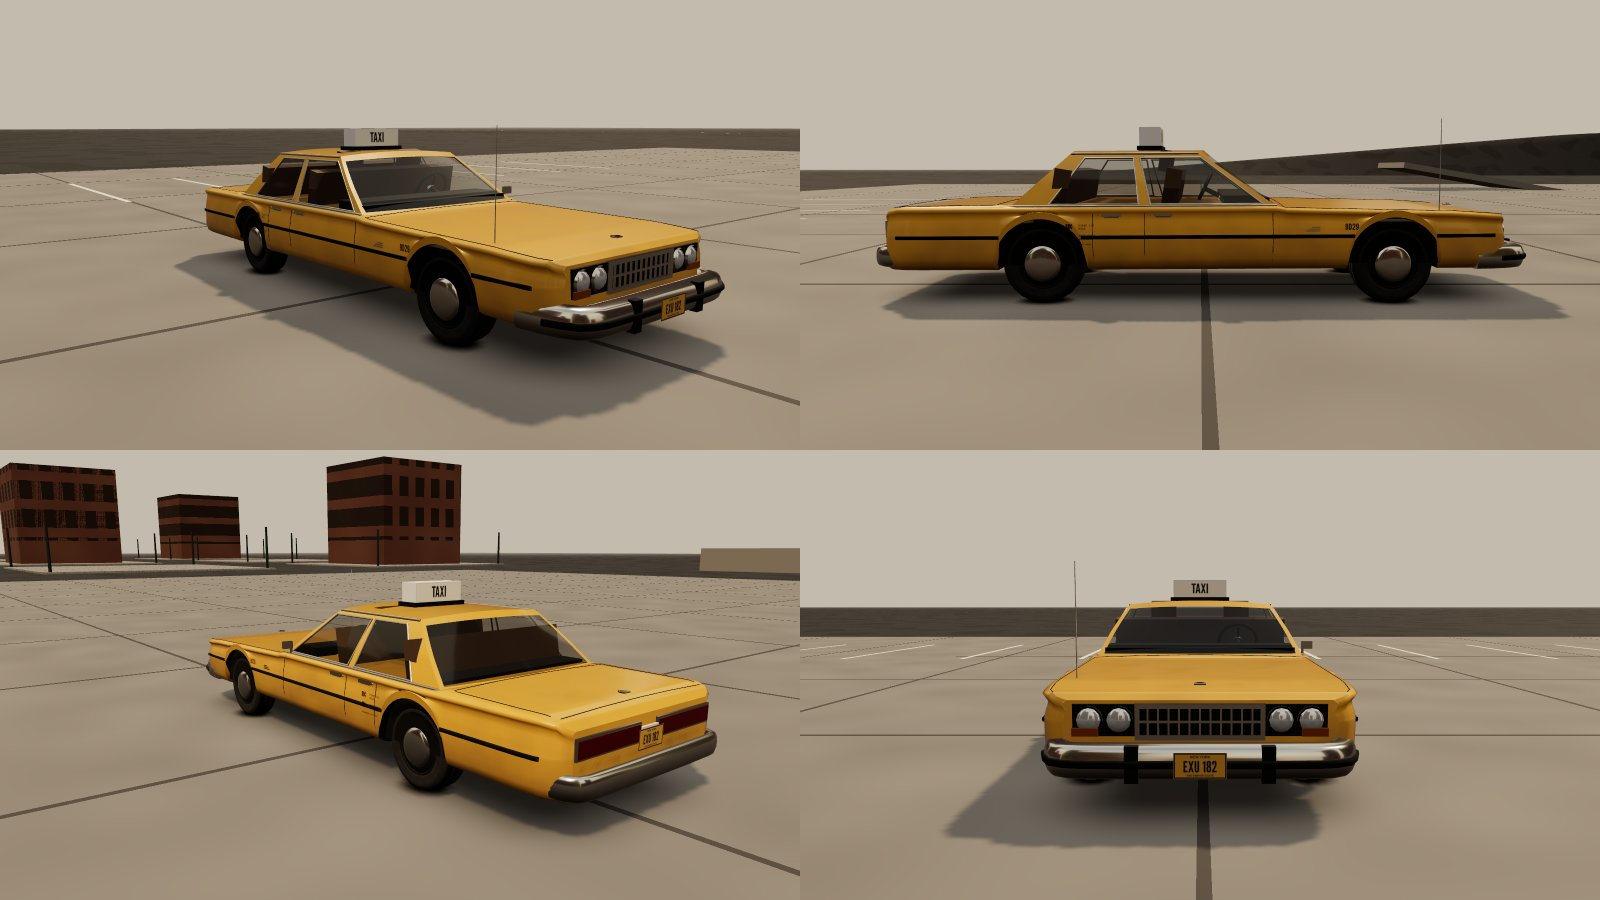
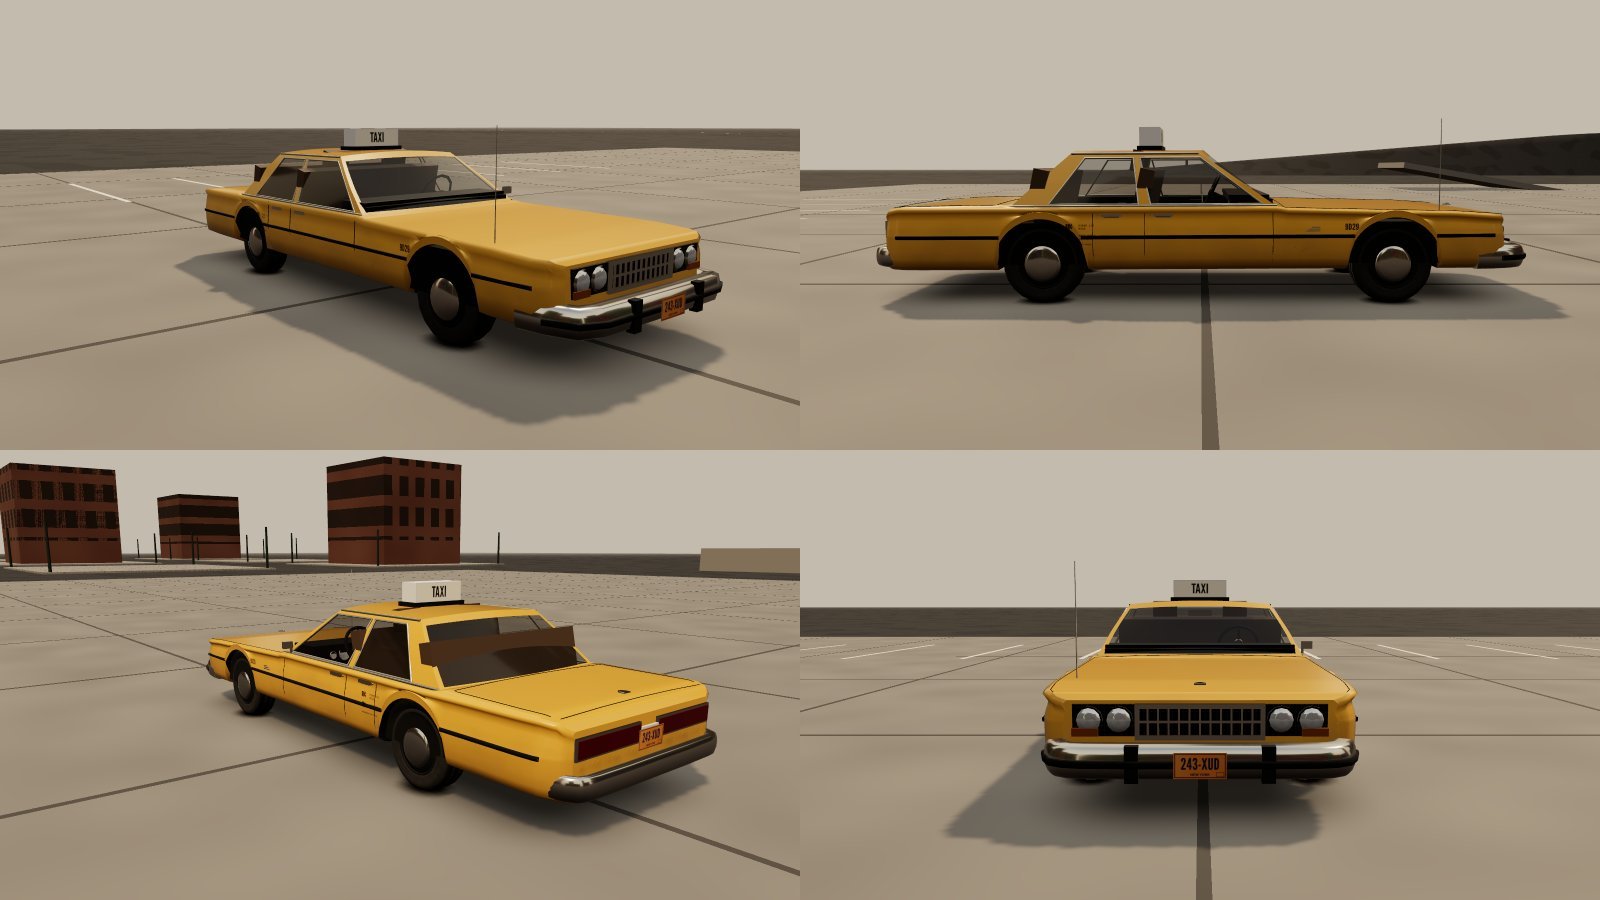
Vehicles: interior rework (H-point layout, seats moved back, open cabin deck, hero dash/gauges/pedals/door cards), interior board; re-shot turntables, lineup, hero boards
Claude-Session: https://claude.ai/code/session_01H4ZSJ51q9zJhE3T3n4Hw3M

diff --git a/src/vehicles/gen/body.ts b/src/vehicles/gen/body.ts
@@ -190,7 +190,10 @@ export function generate(m: ModelSpec, o: GenOptions): GeneratedModel {
   const topRows = secs.map((c) => c.top);
   const nTop = topRows[0].length;
   const isHood = (i: number, j: number) => lod === 0 && !!m.hood && sCell(i) > m.hood[0] && sCell(i) < m.hood[1] && j >= 1 && j < nTop - 2;
-  b.grid(topRows, (i, j) => (isHood(i, j) ? null : m.twoTone?.(sCell(i), 9) ? 'paint2' : 'paint'), { inside });
+  // passenger cars with a modelled cabin: no painted deck across the cabin at the belt (it hid the
+  // seats and dash from outside the glass); the cabin shell and floor close it instead
+  const openCabin = (i: number, j: number) => lod === 0 && PASSENGER.has(m.cls) && sCell(i) > m.gh.sA0 + 0.01 && sCell(i) < m.gh.sC0 - 0.01 && j >= 1 && j < nTop - 2;
+  b.grid(topRows, (i, j) => (isHood(i, j) || openCabin(i, j) ? null : m.twoTone?.(sCell(i), 9) ? 'paint2' : 'paint'), { inside });
   if (m.hood) hoodB.grid(topRows, (i, j) => (isHood(i, j) ? (m.twoTone?.(sCell(i), 9) ? 'paint2' : 'paint') : null), { inside });
   // Underside
   b.grid(secs.map((c) => c.under), 'under', { facing: [0, -1, 0] });
@@ -585,66 +588,82 @@ function cabin(b: GeoBuilder, m: ModelSpec, Z: (s: number) => number, halfW: (s:
   const g = m.gh, belt = m.beltY;
   const hw = halfW((g.sA0 + g.sC0) / 2) - g.beltInset - 0.06;
   const d = m.seats.driver;
+  // layout from the driver's H-point (z = d[2]): wheel 0.42 m ahead, dash face 0.6 m ahead,
+  // seat back just behind the hip; the rear bench one row (0.95 m) back, under the roof
   const front = Z(g.sA0), rearLimit = Z(g.sC0) - 0.2;
-  // dash and its padded top
-  b.box('interior', 0, belt - 0.03, front + 0.25, hw * 2, 0.2, 0.4);
-  b.box('trim', 0, belt + 0.075, front + 0.3, hw * 2, 0.03, 0.32);
+  const hip = d[2], dashFace = hip - 0.6;
+  const dashD = Math.max(0.2, dashFace - (front + 0.02));
+  // dash: lower body, padded top with a rolled lip over the instruments, a glovebox line
+  b.box('interior', 0, belt - 0.07, dashFace - dashD / 2, hw * 2, 0.26, dashD);
+  b.box('trim', 0, belt + 0.075, dashFace - dashD / 2 + 0.04, hw * 2, 0.04, dashD + 0.02);
+  b.box('trim', 0, belt + 0.05, dashFace + 0.015, hw * 2, 0.05, 0.05); // padded lip
+  if (hero) b.box('grille', -d[0] * 0.95, belt - 0.12, dashFace + 0.002, 0.36, 0.004, 0.004); // glovebox shut line
   // steering wheel on its column, tilted toward the driver
-  const wz = front + 0.62, wy = belt + 0.1;
+  const wz = hip - 0.42, wy = belt + 0.08;
   const wheelM = new THREE.Matrix4().makeTranslation(d[0], wy, wz).multiply(new THREE.Matrix4().makeRotationX(-0.45));
   b.add('trim', new THREE.TorusGeometry(0.19, hero ? 0.017 : 0.016, hero ? 8 : 4, hero ? 32 : 12), wheelM.clone());
+  const colLen = Math.hypot(wz - dashFace, 0.12) + 0.05;
+  b.add('trim', new THREE.CylinderGeometry(0.025, 0.03, colLen, 6), new THREE.Matrix4().makeTranslation(d[0], wy - 0.06, (wz + dashFace) / 2).multiply(new THREE.Matrix4().makeRotationX(Math.PI / 2 - 0.45)));
   if (hero) {
     // three-spoke wheel with a horn pad, and the instrument cluster: two big dials, two small, chrome bezels
     for (const a of [Math.PI / 2, Math.PI / 2 + 2.3, Math.PI / 2 - 2.3]) b.add('trim', new THREE.BoxGeometry(0.17, 0.022, 0.012).translate(0.085, 0, 0).applyMatrix4(new THREE.Matrix4().makeRotationZ(a)), wheelM.clone());
     b.add('chrome', new THREE.CylinderGeometry(0.045, 0.05, 0.03, 16).rotateX(Math.PI / 2), wheelM.clone());
-    const panelZ = front + 0.47, panelY = belt - 0.03; // on the dash's rear face, under the padded top
-    for (const [dx, r] of [[-0.11, 0.065], [0.06, 0.065], [0.19, 0.038], [-0.23, 0.038]] as [number, number][]) {
+    const panelZ = dashFace + 0.004, panelY = belt - 0.02;
+    for (const [dx, r] of [[-0.1, 0.06], [0.06, 0.06], [0.19, 0.036], [-0.23, 0.036]] as [number, number][]) {
       const x = d[0] + dx;
-      const face = new THREE.Matrix4().makeTranslation(x, panelY, panelZ).multiply(new THREE.Matrix4().makeRotationX(-0.25));
+      const face = new THREE.Matrix4().makeTranslation(x, panelY, panelZ).multiply(new THREE.Matrix4().makeRotationX(-0.12));
       b.add('chrome', new THREE.TorusGeometry(r, 0.006, 6, 24), face.clone());
-      b.add('white', new THREE.CircleGeometry(r * 0.96, 24).translate(0, 0, 0.004), face.clone()); // faces the driver (+z)
-      // tick marks and a needle
+      b.add('white', new THREE.CircleGeometry(r * 0.96, 24).translate(0, 0, -0.002), face.clone()); // faces the driver (+z)
       for (let k = 0; k <= 8; k++) {
         const t = -2.3 + (k / 8) * 4.6;
-        b.add('trim', new THREE.BoxGeometry(0.003, r * 0.18, 0.002).translate(0, r * 0.78, 0.006).applyMatrix4(new THREE.Matrix4().makeRotationZ(t)), face.clone());
+        b.add('trim', new THREE.BoxGeometry(0.003, r * 0.18, 0.002).translate(0, r * 0.78, 0.001).applyMatrix4(new THREE.Matrix4().makeRotationZ(t)), face.clone());
       }
-      b.add('reverse', new THREE.BoxGeometry(0.004, r * 0.8, 0.002).translate(0, r * 0.38, 0.008).applyMatrix4(new THREE.Matrix4().makeRotationZ(-1.1 + dx * 3)), face.clone());
-      // hood over the cluster
-      b.add('interior', new THREE.CylinderGeometry(r + 0.02, r + 0.02, 0.07, 16, 1, true, -Math.PI / 2, Math.PI).rotateX(Math.PI / 2), face.clone().multiply(new THREE.Matrix4().makeTranslation(0, 0, 0.025)));
+      b.add('reverse', new THREE.BoxGeometry(0.004, r * 0.8, 0.002).translate(0, r * 0.38, 0.003).applyMatrix4(new THREE.Matrix4().makeRotationZ(-1.1 + dx * 3)), face.clone());
     }
-    // cabin shell: inner door cards with armrests, floor with a transmission hump, firewall
-    const sill = m.sillY + 0.06, len = rearLimit - front;
-    for (const sx of [-1, 1]) {
-      b.box('interior', sx * (hw + 0.035), (sill + belt) / 2, (front + rearLimit) / 2, 0.03, belt - sill, len);
-      b.box('seat', sx * (hw + 0.005), belt - 0.16, front + 0.95, 0.06, 0.05, 0.45); // armrest
-      b.box('chrome', sx * (hw + 0.018), belt - 0.07, front + 0.75, 0.01, 0.02, 0.09); // door pull
-    }
-    b.box('interior', 0, sill, (front + rearLimit) / 2, hw * 2 + 0.1, 0.03, len);
-    b.box('interior', 0, sill + 0.09, (front + rearLimit) / 2, 0.24, 0.16, len * 0.9);
-    b.box('interior', 0, (sill + belt) / 2, front + 0.04, hw * 2 + 0.1, belt - sill, 0.03);
-    // radio and heater slider panel in the centre stack (knobs, chrome face)
-    b.box('chrome', 0.05, belt - 0.06, front + 0.44, 0.18, 0.05, 0.01, 0, -0.25);
-    for (const dx of [-0.02, 0.12]) b.add('trim', new THREE.CylinderGeometry(0.012, 0.012, 0.02, 10).rotateX(Math.PI / 2), new THREE.Matrix4().makeTranslation(dx, belt - 0.06, front + 0.455));
+    // centre stack: radio with a chrome face and two knobs, heater slider panel below
+    b.box('chrome', 0.05, belt - 0.06, dashFace + 0.006, 0.18, 0.05, 0.01);
+    for (const dx of [-0.02, 0.12]) b.add('trim', new THREE.CylinderGeometry(0.012, 0.012, 0.02, 10).rotateX(Math.PI / 2), new THREE.Matrix4().makeTranslation(dx, belt - 0.06, dashFace + 0.02));
+    b.box('trim', 0.05, belt - 0.13, dashFace + 0.006, 0.2, 0.035, 0.01);
+    // pedals and the column-shift lever
+    for (const dx of [-0.08, 0.06]) b.box('rubber', d[0] + dx, m.sillY + 0.18, dashFace + 0.12, 0.08, 0.1, 0.02, 0, 0.5);
+    b.add('chrome', new THREE.CylinderGeometry(0.006, 0.006, 0.22, 6).rotateZ(Math.PI / 2 - 0.3), new THREE.Matrix4().makeTranslation(d[0] + 0.14, wy - 0.07, wz + 0.1));
   }
-  b.add('trim', new THREE.CylinderGeometry(0.025, 0.03, 0.45, 6), new THREE.Matrix4().makeTranslation(d[0], wy - 0.08, wz - 0.2).multiply(new THREE.Matrix4().makeRotationX(Math.PI / 2 - 0.45)));
-  // bench seats with headrests (mandatory on new cars from 1969)
-  const bench = (z: number, headrests: boolean) => {
-    b.box('seat', 0, belt - 0.22, z - 0.25, hw * 2, 0.16, 0.5); // cushion (mostly below the belt)
-    b.add('seat', new THREE.BoxGeometry(hw * 2, 0.56, 0.14), new THREE.Matrix4().makeTranslation(0, belt + 0.05, z).multiply(new THREE.Matrix4().makeRotationX(-0.17)));
-    if (headrests) for (const sx of [-1, 1]) b.box('seat', sx * Math.abs(d[0]), belt + 0.4, z + 0.06, 0.26, 0.2, 0.1, 0, -0.17);
+  // bench seats with headrests (mandatory on new cars from 1969); the back leans 12°
+  const bench = (back: number, headrests: boolean) => {
+    b.box('seat', 0, belt - 0.24, back - 0.27, hw * 2, 0.15, 0.52); // cushion (mostly below the belt)
+    if (hero) for (const sx of [-1, 1]) b.box('seat', sx * Math.abs(d[0]), belt - 0.16, back - 0.27, 0.5, 0.02, 0.46); // pleated top panels
+    b.add('seat', new THREE.BoxGeometry(hw * 2, 0.58, 0.13), new THREE.Matrix4().makeTranslation(0, belt + 0.04, back).multiply(new THREE.Matrix4().makeRotationX(-0.21)));
+    if (headrests) for (const sx of [-1, 1]) b.box('seat', sx * Math.abs(d[0]), belt + 0.4, back + 0.07, 0.26, 0.2, 0.1, 0, -0.21);
   };
-  const frontZ = d[2] + 0.32;
-  bench(frontZ, true);
-  const rearZ = Math.min(d[2] + 1.3, rearLimit);
-  if (rearZ - frontZ > 0.6) bench(rearZ, false);
+  const frontBack = hip + 0.22;
+  bench(frontBack, true);
+  const rearBack = Math.min(hip + 0.95 + 0.22, rearLimit);
+  if (rearBack - frontBack > 0.6) bench(rearBack, false);
   // parcel shelf behind the rear seat and the headliner
-  if (m.cls !== 'wagon' && rearLimit - rearZ > 0.1) b.box('interior', 0, belt + 0.03, (rearZ + rearLimit) / 2 + 0.08, hw * 2, 0.03, rearLimit - rearZ + 0.1);
+  if (m.cls !== 'wagon' && rearLimit - rearBack > 0.05) b.box('interior', 0, belt + 0.03, (rearBack + rearLimit) / 2 + 0.08, hw * 2, 0.03, rearLimit - rearBack + 0.1);
   const rows: V3[][] = [];
   for (const u of [0, 0.5, 1]) {
     const s = lerp(g.sA1 + 0.05, g.sC1 - 0.05, u);
     rows.push([-1, -0.5, 0, 0.5, 1].map((xf) => [xf * (g.roofHalfW - 0.04), g.roofY - 0.025 + g.crown * (1 - xf * xf) * 0.8, Z(s)] as V3));
   }
   b.grid(rows, 'white', { facing: [0, -1, 0] });
+  if (hero) {
+    // cabin shell: inner door cards with armrests and pulls, floor with the transmission hump, firewall
+    const sill = m.sillY + 0.06, len = rearLimit - front;
+    for (const sx of [-1, 1]) {
+      b.box('interior', sx * (hw + 0.035), (sill + belt) / 2, (front + rearLimit) / 2, 0.03, belt - sill, len);
+      for (const zz of [hip - 0.1, hip + 0.85]) {
+        b.box('seat', sx * (hw + 0.005), belt - 0.16, zz, 0.06, 0.05, 0.4); // armrest
+        b.box('chrome', sx * (hw + 0.018), belt - 0.07, zz - 0.25, 0.01, 0.02, 0.09); // door pull
+      }
+      b.box('chrome', sx * (hw + 0.02), belt - 0.03, hip - 0.25, 0.012, 0.008, 0.14); // window crank
+    }
+    b.box('interior', 0, sill, (front + rearLimit) / 2, hw * 2 + 0.1, 0.03, len);
+    b.box('interior', 0, sill + 0.09, (front + rearLimit) / 2, 0.24, 0.16, len * 0.9);
+    b.box('interior', 0, (sill + belt) / 2, front + 0.04, hw * 2 + 0.1, belt - sill, 0.03);
+    // rear-view mirror on the windshield header
+    b.box('chrome', 0, g.roofY - 0.09, Z(g.sA1) + 0.12, 0.24, 0.06, 0.02);
+  }
 }
 
 // ======================================================================= greenhouse

diff --git a/src/vehicles/models.ts b/src/vehicles/models.ts
@@ -52,7 +52,7 @@ const bancroft: ModelSpec = {
   trim: { side: { y: 0.6, kind: 'chrome' }, rocker: true, wheelLip: true, windowFrame: 'chrome', doors: true },
   wheelStyle: 'fullcover', whitewall: true,
   extras: ['mirrorL', 'antenna'],
-  seats: carSeats(0.1),
+  seats: carSeats(0.45), // H-point ~0.95 m behind the windshield base
   palette: [C.sgAvocado, C.sgHarvest, C.rust, C.bronze, C.sgCream, C.sgBrown, C.sgWhite, C.forest, C.sgMaroon, C.powder, C.silver, C.navy, C.gold, C.sgBrown, C.sgWhite],
   metallicChance: 0.35, vinylChance: 0.4,
   physics: carPhysics({}),
@@ -95,7 +95,7 @@ const tiverton: ModelSpec = {
   trim: { side: { y: 0.55, kind: 'rubber' }, rocker: true, wheelLip: true, windowFrame: 'chrome', doors: true },
   wheelStyle: 'wire', whitewall: true,
   extras: ['mirrorL', 'antenna'],
-  seats: carSeats(0.0, 0.6),
+  seats: carSeats(0.58, 0.6),
   palette: [C.burgundy, C.bronze, C.cream, C.forest, C.navy, C.white, C.black, C.gold, C.copper],
   metallicChance: 0.6, vinylChance: 0.9,
   physics: carPhysics({ mass: 2150, freqF: 0.95, freqR: 1.05, zeta: 0.2, torque: 480, muPeak: 0.84 }),
@@ -117,7 +117,7 @@ const ferris: ModelSpec = {
   trim: { side: { y: 0.58, kind: 'chrome' }, windowFrame: 'chrome', doors: true },
   wheelStyle: 'hubcap', whitewall: false,
   extras: ['mirrorL'],
-  seats: carSeats(0.0, 0.6),
+  seats: carSeats(0.3, 0.6),
   palette: [C.lime, C.harvest, C.orange, C.powder, C.white, C.tan, C.red, C.mint, C.brown],
   metallicChance: 0.1, vinylChance: 0.1,
   physics: carPhysics({ mass: 1400, comY: 0.53, torque: 290, peakRpm: 2000, redline: 4400, finalDrive: 2.9, freqF: 1.2, freqR: 1.3, zeta: 0.25, antiRoll: 0.2, cdA: 0.85, steerRate: 2.4 }),
@@ -156,7 +156,7 @@ const fareway: ModelSpec = {
   trim: { side: { y: 0.5, kind: 'rubber' }, windowFrame: 'chrome', doors: true },
   wheelStyle: 'hubcap', whitewall: false,
   extras: ['taxiLight', 'mirrorL', 'antenna'],
-  seats: carSeats(0.05, 0.64),
+  seats: carSeats(0.38, 0.64),
   palette: [C.taxi, 0xdfa328, 0xd99c25, 0xe6ad30],
   metallicChance: 0, vinylChance: 0,
   physics: carPhysics({ mass: 1850, freqF: 1.15, freqR: 1.3, zeta: 0.25, torque: 360 }),

diff --git a/tools/shots/vehicles.ts b/tools/shots/vehicles.ts
@@ -314,11 +314,15 @@ async function main() {
       await setCar('tiverton', 2); await hero(true);
       await camLocal([0.75, 0.12, -0.75], [0, 0, 0], 32, 'w'); dt.push(await snap(page));
       const drv = await page.evaluate(() => { const s = window.__VEH.player.asset.spec; return { d: s.seats.driver, belt: s.beltY, front: s.gh.sA0 - (s.sF + s.wheelbase / 2) }; });
-      void drv;
       await camLocal([-0.9, 1.75, 4.6], [0, 0.85, 2.4], 32); dt.push(await snap(page));
       await camLocal([0.9, 1.5, -3.6], [0, 0.85, -2.3], 30); dt.push(await snap(page));
       await camLocal([2.1, 1.0, -1.0], [0.9, 0.75, -1.2], 34); dt.push(await snap(page));
       await sheet(page, dt, 2, 800, 450, 'hero_details.jpg', ['48-segment wheel: tyre tread + sidewall geometry, fluted cover', 'deck lid: shut lines + crest (invented)', 'hood crest (invented), hood shut lines', 'fender emblem, door handle with lock barrel, shut line']);
+      // 2b. interior: over the driver's shoulder, and through the side glass from outside
+      const it: Buffer[] = [];
+      await camLocal([drv.d[0] + 0.12, drv.belt + 0.42, drv.d[2] + 0.12], [drv.d[0] + 0.08, drv.belt - 0.04, drv.d[2] - 0.6], 60, 'o'); it.push(await snap(page));
+      await camLocal([-2.4, 1.45, drv.d[2] + 0.4], [0, 0.85, drv.d[2]], 40, 'o'); it.push(await snap(page));
+      await sheet(page, it, 2, 800, 450, 'hero_interior.jpg', ['over the shoulder: gauges, 3-spoke wheel, radio, column shift', 'through the side glass: bench seats, door cards, dash']);
       // 3. glass: bullet into the windscreen (laminated web) and a side window (tempered dice)
       const gl: Buffer[] = [];
       const geo = await page.evaluate(() => { const s = window.__VEH.player.asset.spec, m = s.sF + s.wheelbase / 2; return { zF: (s.gh.sA0 + s.gh.sA1) / 2 - m, yF: (s.beltY + s.gh.roofY) / 2, zS: (s.gh.sA1 + s.gh.sC1) / 2 - m, hw: window.__VEH.player.asset.lod0.halfW }; });

diff --git a/docs/VEHICLES_PROGRESS.md b/docs/VEHICLES_PROGRESS.md
@@ -127,6 +127,25 @@ Brief: `docs/briefs/VEHICLES_BRIEF.md`. Branch: `claude/youthful-newton-py223e`,
   - Positions come from `sim.vendorViews`; a hit sends gameplay `cartHit`.
   - The engine side is docs/requests/sim.md item 13.
 
+- **Interior rework:**
+  - **Layout.** The cabin is now laid out from the driver's H-point. Seats moved back to about
+    0.95 m behind the windshield base (they were 0.4–0.6 m), so `seatPose` changed for the
+    Bancroft family, the Tiverton, the Ferris and the Fareway. The steering wheel sits 0.42 m
+    ahead of the hip, the dash face 0.6 m ahead, the seat back just behind, and the rear bench
+    one row (0.95 m) back.
+  - **The painted belt deck over the cabin is gone.** It hid the seats and dash from outside the
+    glass.
+  - **Hero cabin:** dash with a padded lip and a glovebox line; gauges on the dash face; a radio
+    and heater panel; pedals and a column shift; pleated bench tops; door cards with armrests,
+    pulls and window cranks; floor and transmission hump; firewall; rear-view mirror.
+  - Shot: `hero_interior.jpg` (over the shoulder, and through the side glass).
+- **Vendor-cart notes from Sim** (63099eb):
+  - `cart_coffee` is a pushcart (0.8 × 1.4, urn and roll tray). A van would be a separate
+    `van_coffee` id, parked in the kerb lane.
+  - Righting: Sim emits `cartRighted {id}` 6–10 s after `cartOverturned`; that's the cue for
+    `props.right(id)`. The cart then goes to `leaving` (kinematic).
+  - Sim uses the footprints above for pedestrian avoidance (kiosk 1.15 m, monte box 0.3 m).
+
 ### vs GTA V / VI / RDR2 (vehicles)
 - **What the references do:**
   - GTA V player cars are high-poly hero meshes with full interiors and working gauges.
